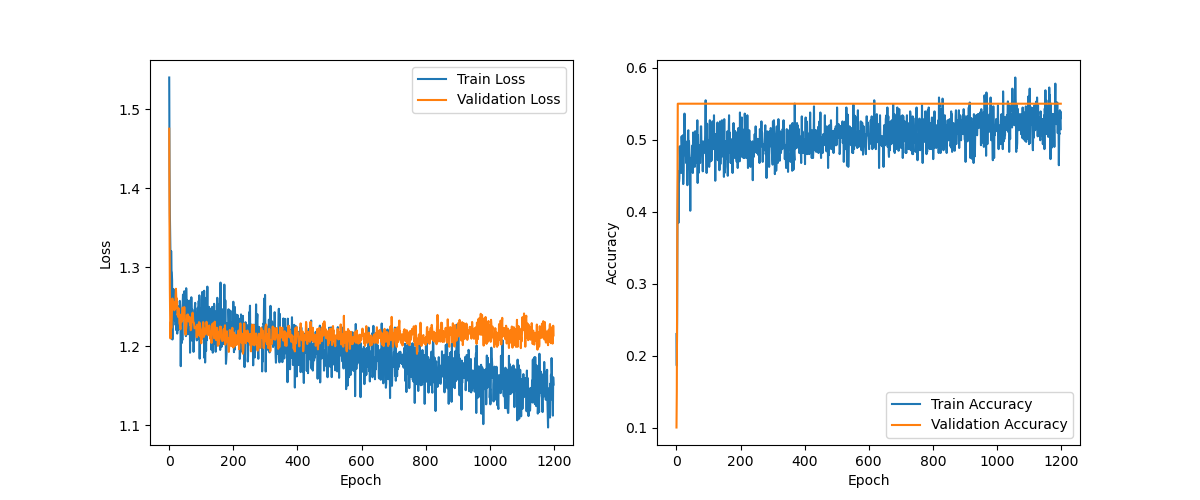
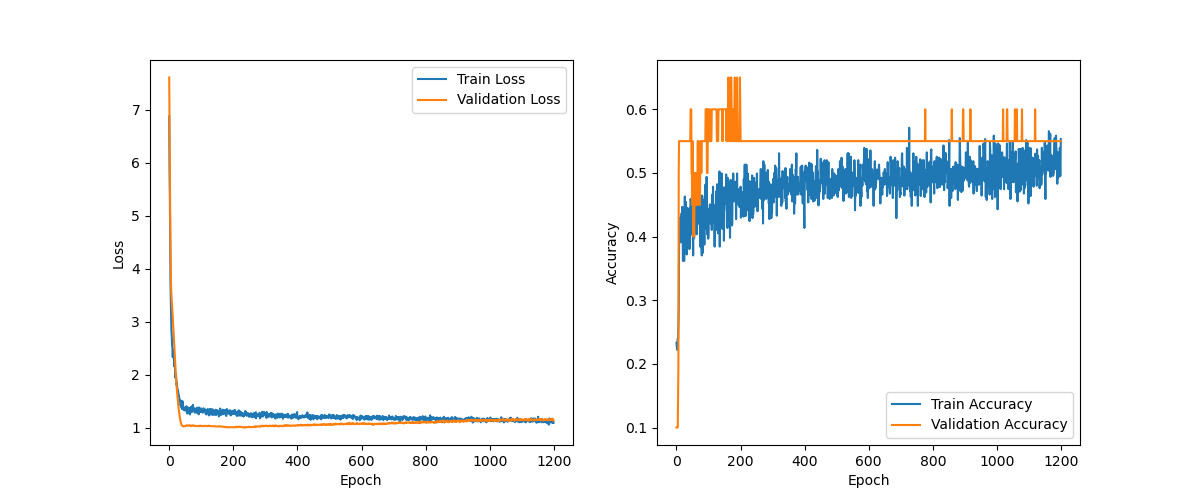
gridsearch overfitting

diff --git a/GAT.py b/GAT.py
@@ -242,22 +242,22 @@ f.dataset_features_and_stats(dataset)
 # Creating the train, validation and test sets
 train_loader, valid_loader, test_loader, nbr_classes = f.create_train_test_valid(dataset)
 
-# param_grid = {
-#     'learning_rate': [0.01, 0.001, 0.0001, 0.00001],
-#     'hidden_channels': [128, 64, 32],
-#     'num_layers': [3, 2, 1],
-#     'dropout_rate': [0.3, 0.2, 0.1, 0.0],
-#     'heads': [5, 4, 3, 2],
-#     'weight_decay': [0.01, 0.001, 0.0001]
-# }
 param_grid = {
-    'learning_rate': [0.00001, 0.0001, 0.001, 0.01],
-    'hidden_channels': [32, 64, 128],
-    'num_layers': [1, 2, 3],
-    'dropout_rate': [0.0, 0.1, 0.2, 0.3],
-    'heads': [2, 3, 4, 5],
-    'weight_decay': [0.0001, 0.001, 0.01]
+    'learning_rate': [0.01, 0.001, 0.0001, 0.00001],
+    'hidden_channels': [128, 64, 32],
+    'num_layers': [3, 2, 1],
+    'dropout_rate': [0.3, 0.2, 0.1, 0.0],
+    'heads': [5, 4, 3, 2],
+    'weight_decay': [0.01, 0.001, 0.0001]
 }
+# param_grid = {
+#     'learning_rate': [0.00001, 0.0001, 0.001, 0.01],
+#     'hidden_channels': [32, 64, 128],
+#     'num_layers': [1, 2, 3],
+#     'dropout_rate': [0.0, 0.1, 0.2, 0.3],
+#     'heads': [2, 3, 4, 5],
+#     'weight_decay': [0.0001, 0.001, 0.01]
+# }
 
 # Create combinations of hyperparameters
 param_combinations = ParameterGrid(param_grid)

diff --git a/GCN.py b/GCN.py
@@ -239,20 +239,20 @@ f.dataset_features_and_stats(dataset)
 # Creating the train, validation and test sets
 train_loader, valid_loader, test_loader, nbr_classes = f.create_train_test_valid(dataset)
 
-# param_grid = {
-#     'learning_rate': [0.01, 0.001, 0.0001, 0.00001],
-#     'hidden_channels': [128, 64, 32],
-#     'num_layers': [3, 2, 1],
-#     'dropout_rate': [0.3, 0.2, 0.1, 0.0],
-#     'weight_decay': [0.01, 0.001, 0.0001]
-# }
 param_grid = {
-    'learning_rate': [0.00001, 0.0001, 0.001, 0.01],
-    'hidden_channels': [32, 64, 128],
-    'num_layers': [1, 2, 3],
-    'dropout_rate': [0.0, 0.1, 0.2, 0.3],
-    'weight_decay': [0.0001, 0.001, 0.01]
+    'learning_rate': [0.01, 0.001, 0.0001, 0.00001],
+    'hidden_channels': [128, 64, 32],
+    'num_layers': [3, 2, 1],
+    'dropout_rate': [0.3, 0.2, 0.1, 0.0],
+    'weight_decay': [0.01, 0.001, 0.0001]
 }
+# param_grid = {
+#     'learning_rate': [0.00001, 0.0001, 0.001, 0.01],
+#     'hidden_channels': [32, 64, 128],
+#     'num_layers': [1, 2, 3],
+#     'dropout_rate': [0.0, 0.1, 0.2, 0.3],
+#     'weight_decay': [0.0001, 0.001, 0.01]
+# }
 
 # Create combinations of hyperparameters
 param_combinations = ParameterGrid(param_grid)

diff --git a/MPNN.py b/MPNN.py
@@ -280,20 +280,20 @@ f.dataset_features_and_stats(dataset)
 # Creating the train, validation and test sets
 train_loader, valid_loader, test_loader, nbr_classes = f.create_train_test_valid(dataset)
 
-# param_grid = {
-#     'learning_rate': [0.01, 0.001, 0.0001, 0.00001],
-#     'hidden_channels': [128, 64, 32],
-#     'num_layers': [3, 2, 1],
-#     'dropout_rate': [0.3, 0.2, 0.1, 0.0],
-#     'weight_decay': [0.01, 0.001, 0.0001]
-# }
 param_grid = {
-    'learning_rate': [0.00001, 0.0001, 0.001, 0.01],
-    'hidden_channels': [32, 64, 128],
-    'num_layers': [1, 2, 3],
-    'dropout_rate': [0.0, 0.1, 0.2, 0.3],
-    'weight_decay': [0.0001, 0.001, 0.01]
+    'learning_rate': [0.01, 0.001, 0.0001, 0.00001],
+    'hidden_channels': [128, 64, 32],
+    'num_layers': [3, 2, 1],
+    'dropout_rate': [0.3, 0.2, 0.1, 0.0],
+    'weight_decay': [0.01, 0.001, 0.0001]
 }
+# param_grid = {
+#     'learning_rate': [0.00001, 0.0001, 0.001, 0.01],
+#     'hidden_channels': [32, 64, 128],
+#     'num_layers': [1, 2, 3],
+#     'dropout_rate': [0.0, 0.1, 0.2, 0.3],
+#     'weight_decay': [0.0001, 0.001, 0.01]
+# }
 
 # Create combinations of hyperparameters
 param_combinations = ParameterGrid(param_grid)
